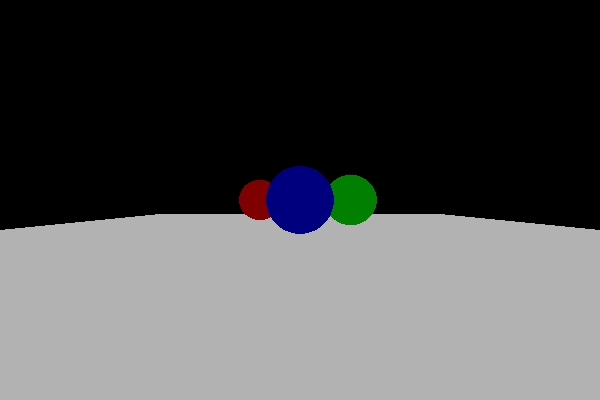
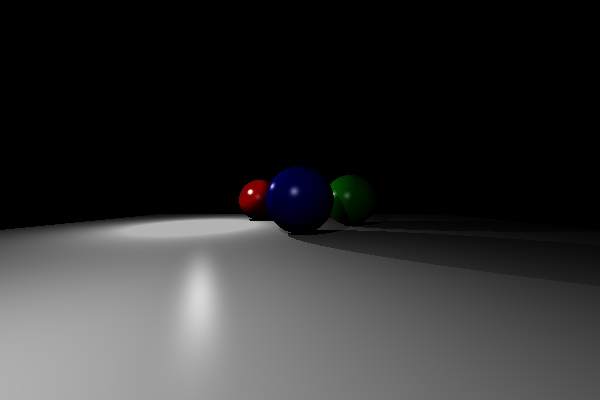
work

diff --git a/src/ofApp.cpp b/src/ofApp.cpp
@@ -7,8 +7,9 @@
  *
  */
 //--------------------------------------------------------------
-void ofApp::setup(){
 
+void ofApp::setup(){
+	dim = glm::vec2(600, 400);
 	prevCam.disableMouseInput();
 	Sphere* sphere1 = new Sphere(glm::vec3(50, 25,150), glm::vec3(0.5f,0.0f,0.0f), glm::vec3(1.0f,1.0f,1.0f), 25, nullptr);
 	set.push_back((SceneObject*)sphere1);
@@ -42,7 +43,8 @@ void ofApp::setup(){
 	prevCam.setFov(90.0f);
 	prevCam.setOrientation(glm::angleAxis(glm::radians(180.0f), cam.getUp()));
 
-	RayTracer::testRayTracer(cam, set, lights, glm::vec2(600, 400), img);
+	//RayTracer::testRayTracer(cam, set, lights, dim, img);
+	renderPhongImage();
 	img.save("render.jpg");
 	img2.load("render.jpg");
 	ofSetBackgroundColor(ofColor::black);
@@ -124,6 +126,80 @@ void ofApp::gotMessage(ofMessage msg){
 //--------------------------------------------------------------
 void ofApp::dragEvent(ofDragInfo dragInfo){ 
 
+}
+
+
+ofColor ofApp::lambert(const glm::vec3 &p, const glm::vec3 &norm, const ofColor diffuse)
+{
+	float luminence;
+	if (lights.size() == 0)
+		luminence = 1.0f;
+	else
+		luminence = 0.0f;
+	for (auto light : lights)
+	{
+		glm::vec3 lightRay = light->getPos() - p;
+		float invR2 = 1.0f / glm::dot(lightRay, lightRay);
+		luminence += (light->intensity * invR2)*glm::max(0.0f, glm::dot(norm, glm::normalize(lightRay)))*light->getBlocked(p, set);
+	}
+	return diffuse * glm::min(luminence,1.0f);
+
+}
+ofColor ofApp::phong(const glm::vec3 &p, const glm::vec3 &norm, const ofColor diffuse, const ofColor specular, float power, const glm::vec3 &hitDir)
+{
+	float luminence;
+	if (lights.size() == 0)
+		luminence = 1.0f;
+	else
+		luminence = 0.0f;
+	for (auto light : lights)
+	{
+		glm::vec3 lightRay = light->getPos() - p;
+		float invR2 = 1.0f / glm::dot(lightRay, lightRay);
+		glm::vec3 bisector = glm::normalize(glm::normalize(lightRay) + -hitDir);
+		luminence += (light->intensity * invR2)*glm::pow(glm::max(0.0f, glm::dot(norm, bisector)), power)*light->getBlocked(p, set);
+	}
+	return lambert(p, norm, diffuse) + specular * glm::min(luminence, 1.0f);
+}
+void ofApp::renderLambertImage()
+{
+	int width = (int)dim.x;
+	int height = (int)dim.y;
+	img.allocate(width, height, ofImageType::OF_IMAGE_COLOR);
+	for (int i = 0; i < height; i++)
+	{
+		for (int j = 0; j < width; j++)
+		{
+			ofColor pixCol = ofColor::black;
+			auto PxRay = cam.getRay(glm::vec2(((float)j + 0.5f) / dim.x, ((float)i + 0.5f) / dim.y));
+			auto Hit = PxRay.getHit(set);
+			if (Hit.hit)
+			{
+				pixCol += lambert(Hit.hitPos, Hit.hitNorm, getColFromVec(Hit.hitObject->getDiffuse()));
+			}
+			img.setColor(j, i, pixCol);
+		}
+	}
+}
+void ofApp::renderPhongImage()
+{
+	int width = (int)dim.x;
+	int height = (int)dim.y;
+	img.allocate(width, height, ofImageType::OF_IMAGE_COLOR);
+	for (int i = 0; i < height; i++)
+	{
+		for (int j = 0; j < width; j++)
+		{
+			ofColor pixCol = ofColor::black;
+			auto PxRay = cam.getRay(glm::vec2(((float)j + 0.5f) / dim.x, ((float)i + 0.5f) / dim.y));
+			auto Hit = PxRay.getHit(set);
+			if (Hit.hit)
+			{
+				pixCol = phong(Hit.hitPos, Hit.hitNorm, getColFromVec(Hit.hitObject->getDiffuse()), getColFromVec(Hit.hitObject->getSpec()), 150.0f, Hit.hitDir);
+			}
+			img.setColor(j, i, pixCol);
+		}
+	}
 }
 
 ofApp::~ofApp()

diff --git a/src/ofApp.h b/src/ofApp.h
@@ -2,6 +2,7 @@
 
 #include "ofMain.h"
 #include "RayTracer.h"
+#include "ofxGui.h"
 /*H*********************************************************
  *
  * AUTHOR: Zackary Finer
@@ -12,6 +13,12 @@
 class ofApp : public ofBaseApp{
 	bool drawRender = false;
 	public:
+		ofxVec3Slider lightPos;
+		ofxFloatSlider intensity1;
+		ofxFloatSlider intensity2;
+		ofxFloatSlider intensity3;
+		ofxPanel debugGui;
+
 		void setup();
 		void update();
 		void draw();
@@ -19,6 +26,7 @@ class ofApp : public ofBaseApp{
 		std::vector<Light*> lights;
 		RayCam cam;
 		ofEasyCam prevCam;
+		glm::vec2 dim;
 		ofImage img;
 		ofImage img2;
 		void keyPressed(int key);
@@ -32,5 +40,10 @@ class ofApp : public ofBaseApp{
 		void windowResized(int w, int h);
 		void dragEvent(ofDragInfo dragInfo);
 		void gotMessage(ofMessage msg);
+		ofColor lambert(const glm::vec3 &p, const glm::vec3 &norm, const ofColor diffuse);
+		/*NOTE: i've added an extra parameter for the hit direction (eye angle) as this will be needed for phong calculations */
+		ofColor phong(const glm::vec3 &p, const glm::vec3 &norm, const ofColor diffuse, const ofColor specular, float power, const glm::vec3 &hitDir);
+		void renderLambertImage();
+		void renderPhongImage();
 		~ofApp();
 };

diff --git a/src/Light.h b/src/Light.h
@@ -1,6 +1,7 @@
 #pragma once
 #include "ofMain.h"
 #include "Ray.h"
+#include "SceneObjects.h"
 /*H*********************************************************
  *
  * AUTHOR: Zackary Finer
@@ -9,10 +10,11 @@
  *
  */
 #define LIGHT_EPSILON 0.1f //if you're seeing spots, play with this value
-class Light
+class Light : public SceneObject
 {
 public:
 	glm::vec3 pos;
+
 	glm::vec3 color;
 	float intensity;
 	Light();
@@ -21,4 +23,14 @@ public:
 	Light& operator=(const Light&);
 	glm::vec3 getIntensity(const RayHit& point, const std::vector<SceneObject*>& obj);
 	void drawDebug() const;
+
+	glm::vec3 getPos() const { return pos; }
+	glm::quat getRot() const { return glm::quat(); }
+	void draw() const { drawDebug(); }
+	RayHit castRay(const Ray& ray) const { return RayHit(); }
+	void setPos(const glm::vec3& newPos) { pos = newPos; }
+	void setRot(const glm::vec3& newRot) {}
+	glm::vec3 getDiffuse() const { return glm::vec3(); }
+	glm::vec3 getSpec() const { return glm::vec3(); }
+	float getBlocked(const glm::vec3& p, const std::vector<SceneObject*>& obj);
 };

diff --git a/src/Light.cpp b/src/Light.cpp
@@ -44,10 +44,26 @@ glm::vec3 Light::getIntensity(const RayHit& point, const std::vector<SceneObject
 	
 }
 
+float Light::getBlocked(const glm::vec3& point, const std::vector<SceneObject*>& obj)
+{
+	//returns a color
+	//in the case of an omni light (this one), either the color*intensity or nothing
+	glm::vec3 diff = pos - point;
+	glm::vec3 lightDir = glm::normalize(diff);
+	float distToLight = glm::sqrt(glm::dot(diff, diff));
+	Ray lightTest = Ray(lightDir, point + lightDir * LIGHT_EPSILON); // we offset the origin to avoid hitting the same object we're casting from
+	auto testResult = lightTest.getHit(obj);
+	if (!testResult.hit || testResult.hitDist > distToLight) // 
+		return 1.0f;
+	return 0.0f;
+
+}
+
 void Light::drawDebug() const
 {
 	ofPushMatrix();
 	ofTranslate(pos);
+	ofDrawSphere(pos, 0.1f);
 	ofDrawAxis(10.0f);
 	ofPopMatrix();
 }

diff --git a/src/RayTracer.h b/src/RayTracer.h
@@ -10,6 +10,7 @@
  *
  *
  */
+ofColor getColFromVec(const glm::vec3& col);
 namespace RayTracer {
 
 	ofImage testRayTracer(const RayCam&, const std::vector<SceneObject*>&, const std::vector<Light*>&, const glm::vec2&, ofImage&);

diff --git a/src/Shader.h b/src/Shader.h
@@ -6,3 +6,4 @@
  *
  *
  */
+#include "ofMain.h"
